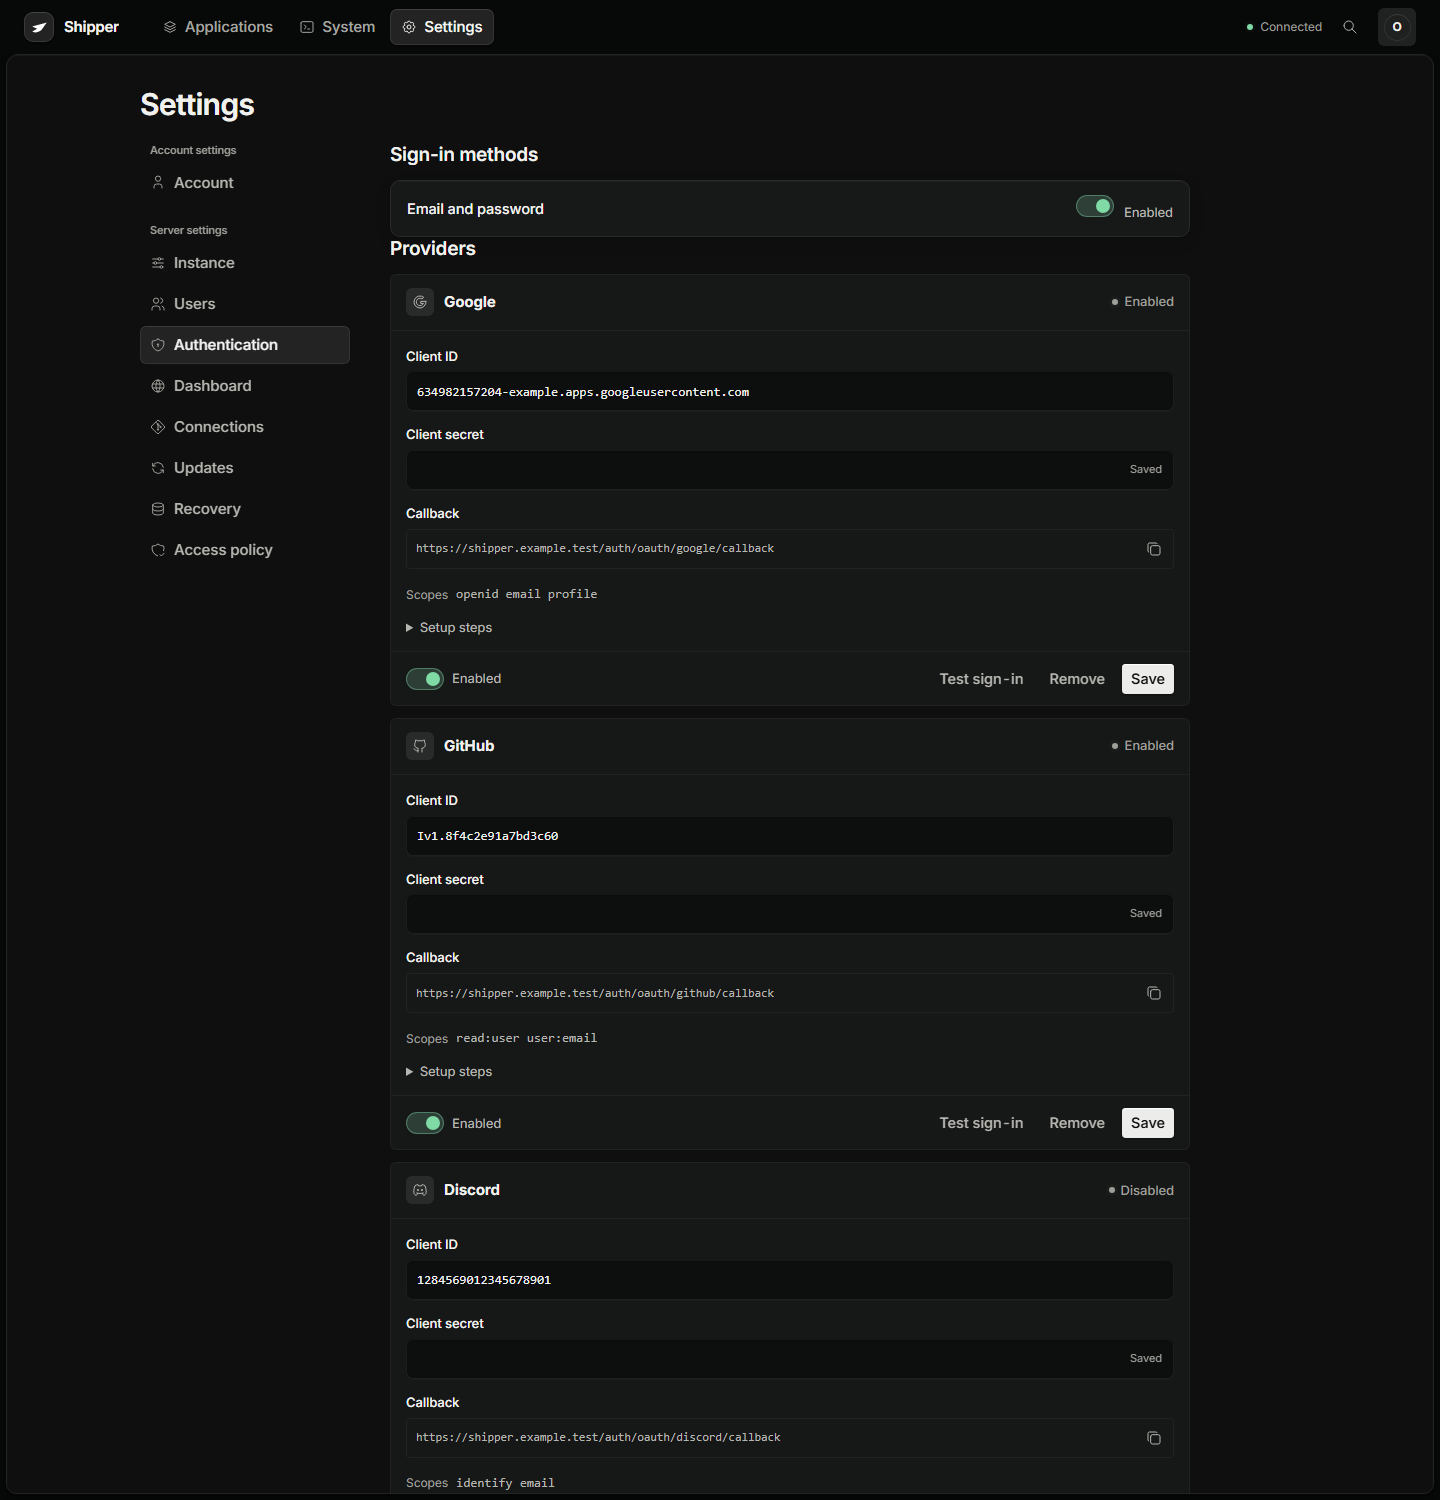
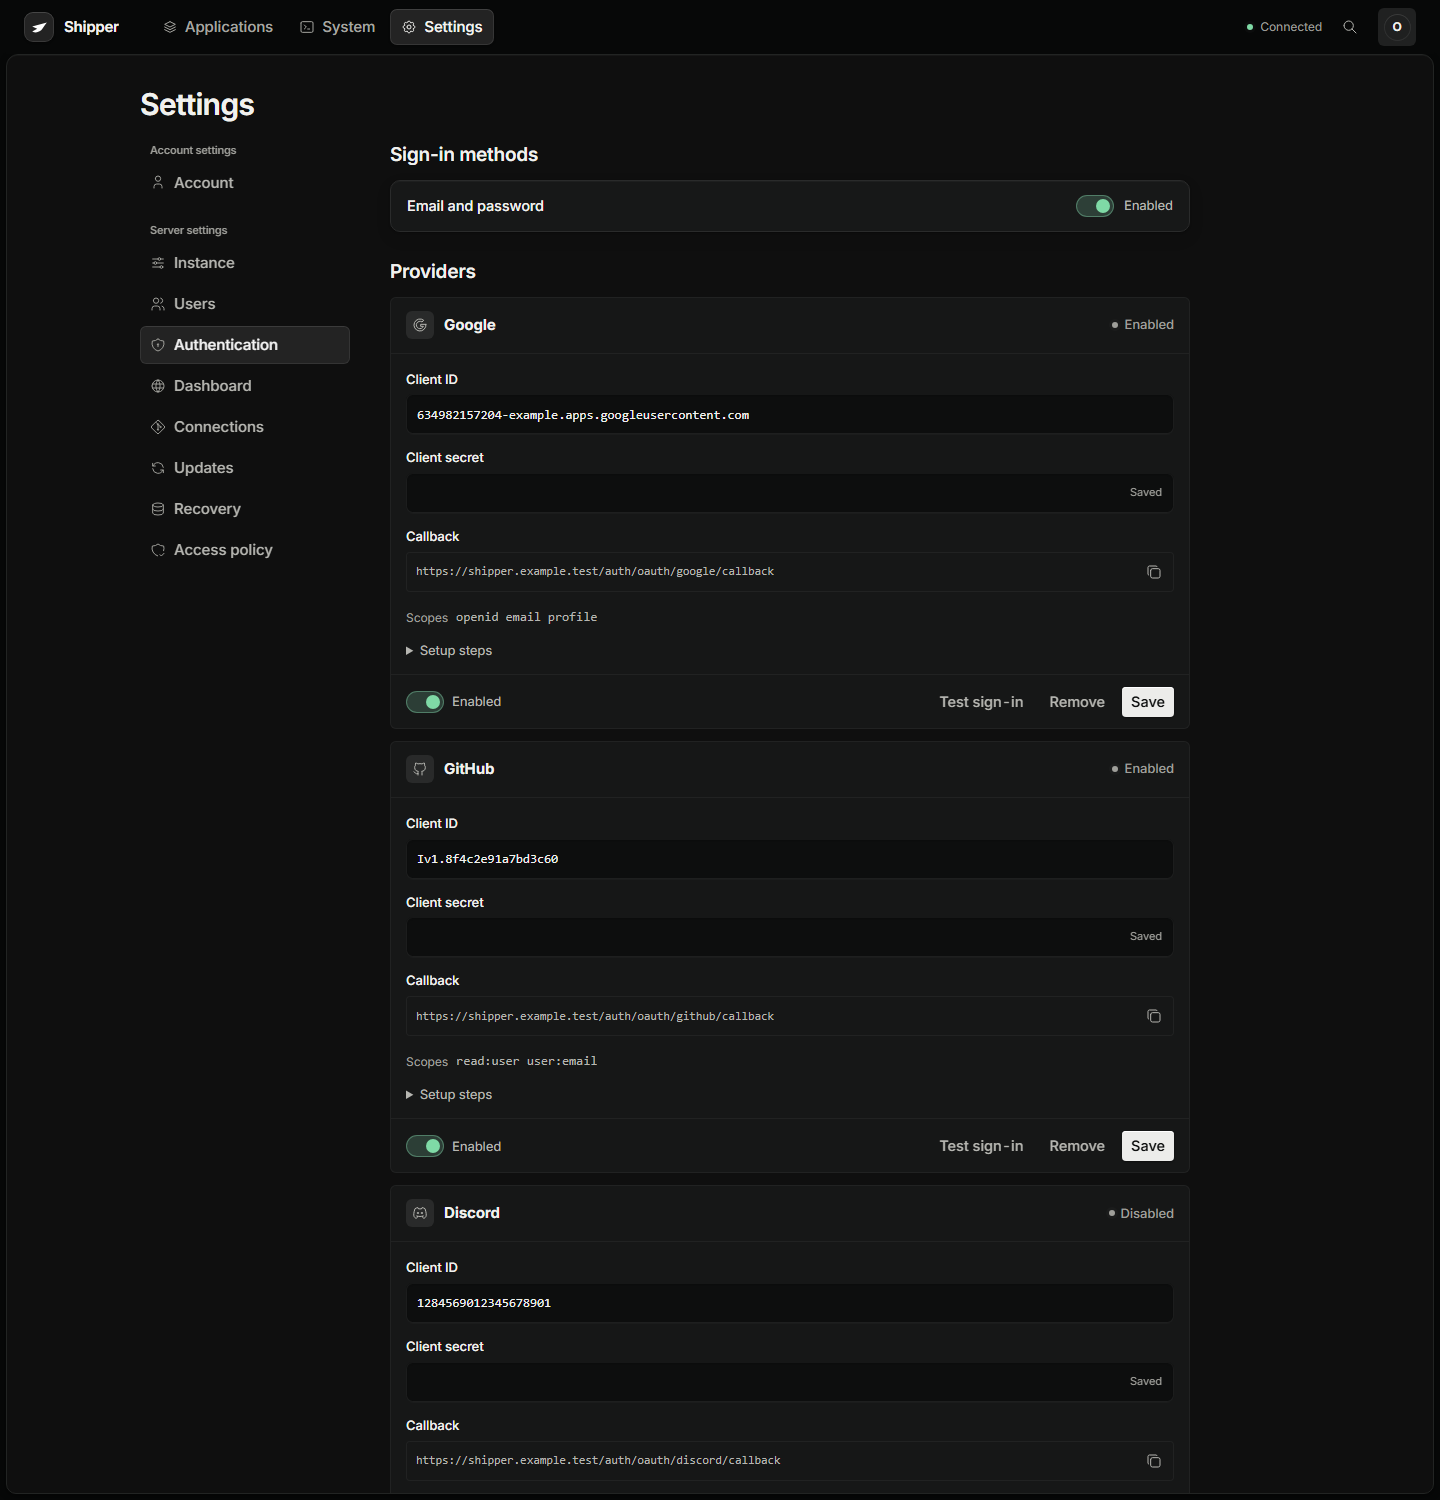
fix: align authentication method controls

diff --git a/web/src/components/Authentication.tsx b/web/src/components/Authentication.tsx
@@ -87,12 +87,12 @@ export default function Authentication() {
     <Show when={result()}><div class="provider-result" role="status"><Icon name="check" />{result()}</div></Show>
     <Show when={error()}><ErrorNotice message={error()} /></Show>
     <dl class="settings-group">
-      <div class="setting-row"><dt>Email and password</dt><dd>
+      <div class="setting-row"><dt>Email and password</dt><dd class="method-control">
         <label class="update-switch"><input type="checkbox" aria-label="Enable email and password sign-in" checked={settings.data?.passwordEnabled ?? true} disabled={busy() || !settings.data} onChange={event => void savePassword(event.currentTarget.checked)} /><span class="update-switch-track" /></label>
         <span class="method-state">{settings.data?.passwordEnabled ? "Enabled" : "Disabled"}</span>
       </dd></div>
     </dl>
-    <h2>Providers</h2>
+    <h2 class="settings-subheading">Providers</h2>
     <div class="provider-list">
       <For each={settings.data?.providers}>{item => <ProviderCard item={item} remove={() => setRemoving(item)} />}</For>
     </div>

diff --git a/web/src/styles.css b/web/src/styles.css
@@ -11468,3 +11468,16 @@ body:has(.confirm-dialog) .page-actions {
 .mobile-bottom-nav.is-simple[data-active="settings"] .mobile-nav-indicator {
   transform: translate3d(100%, 0, 0);
 }
+
+.settings-subheading {
+  margin-top: 28px;
+}
+.method-control {
+  display: flex;
+  align-items: center;
+  justify-content: flex-end;
+  gap: 10px;
+}
+.method-control .method-state {
+  margin-left: 0;
+}
